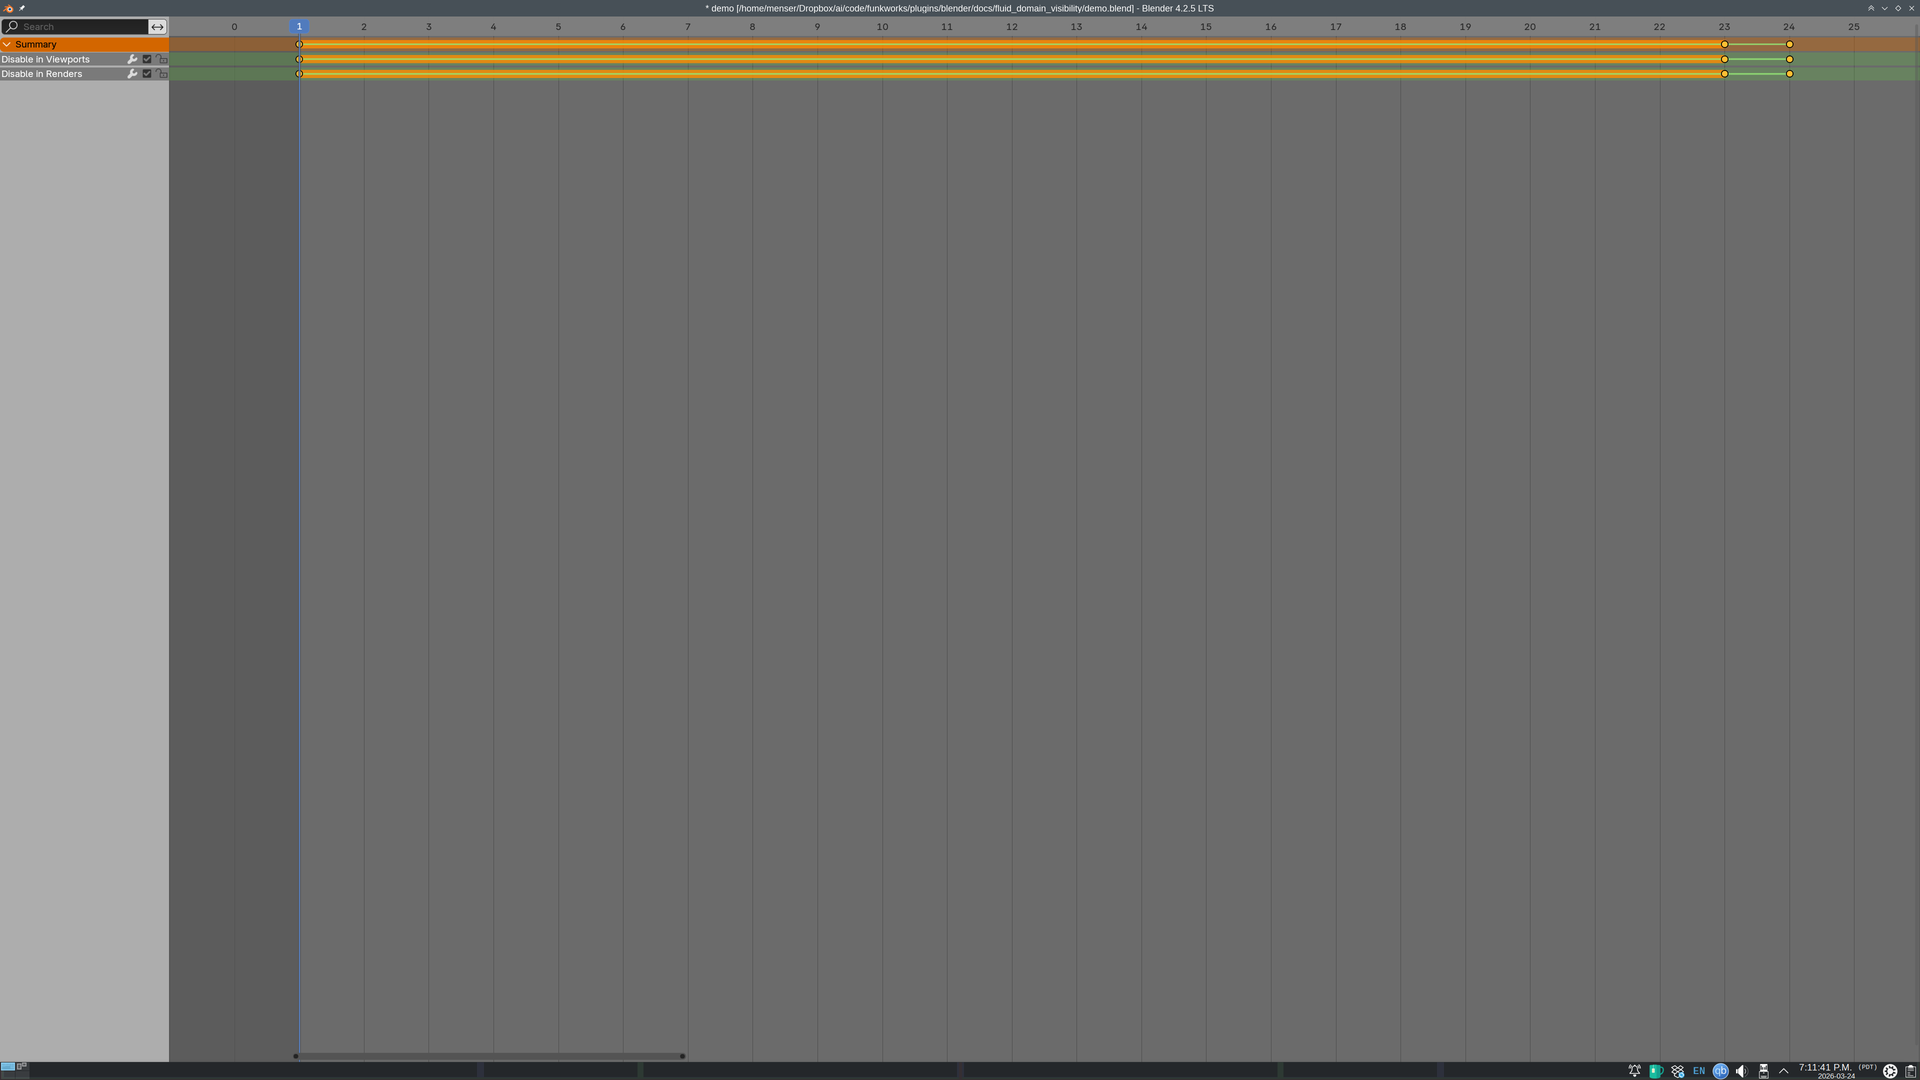
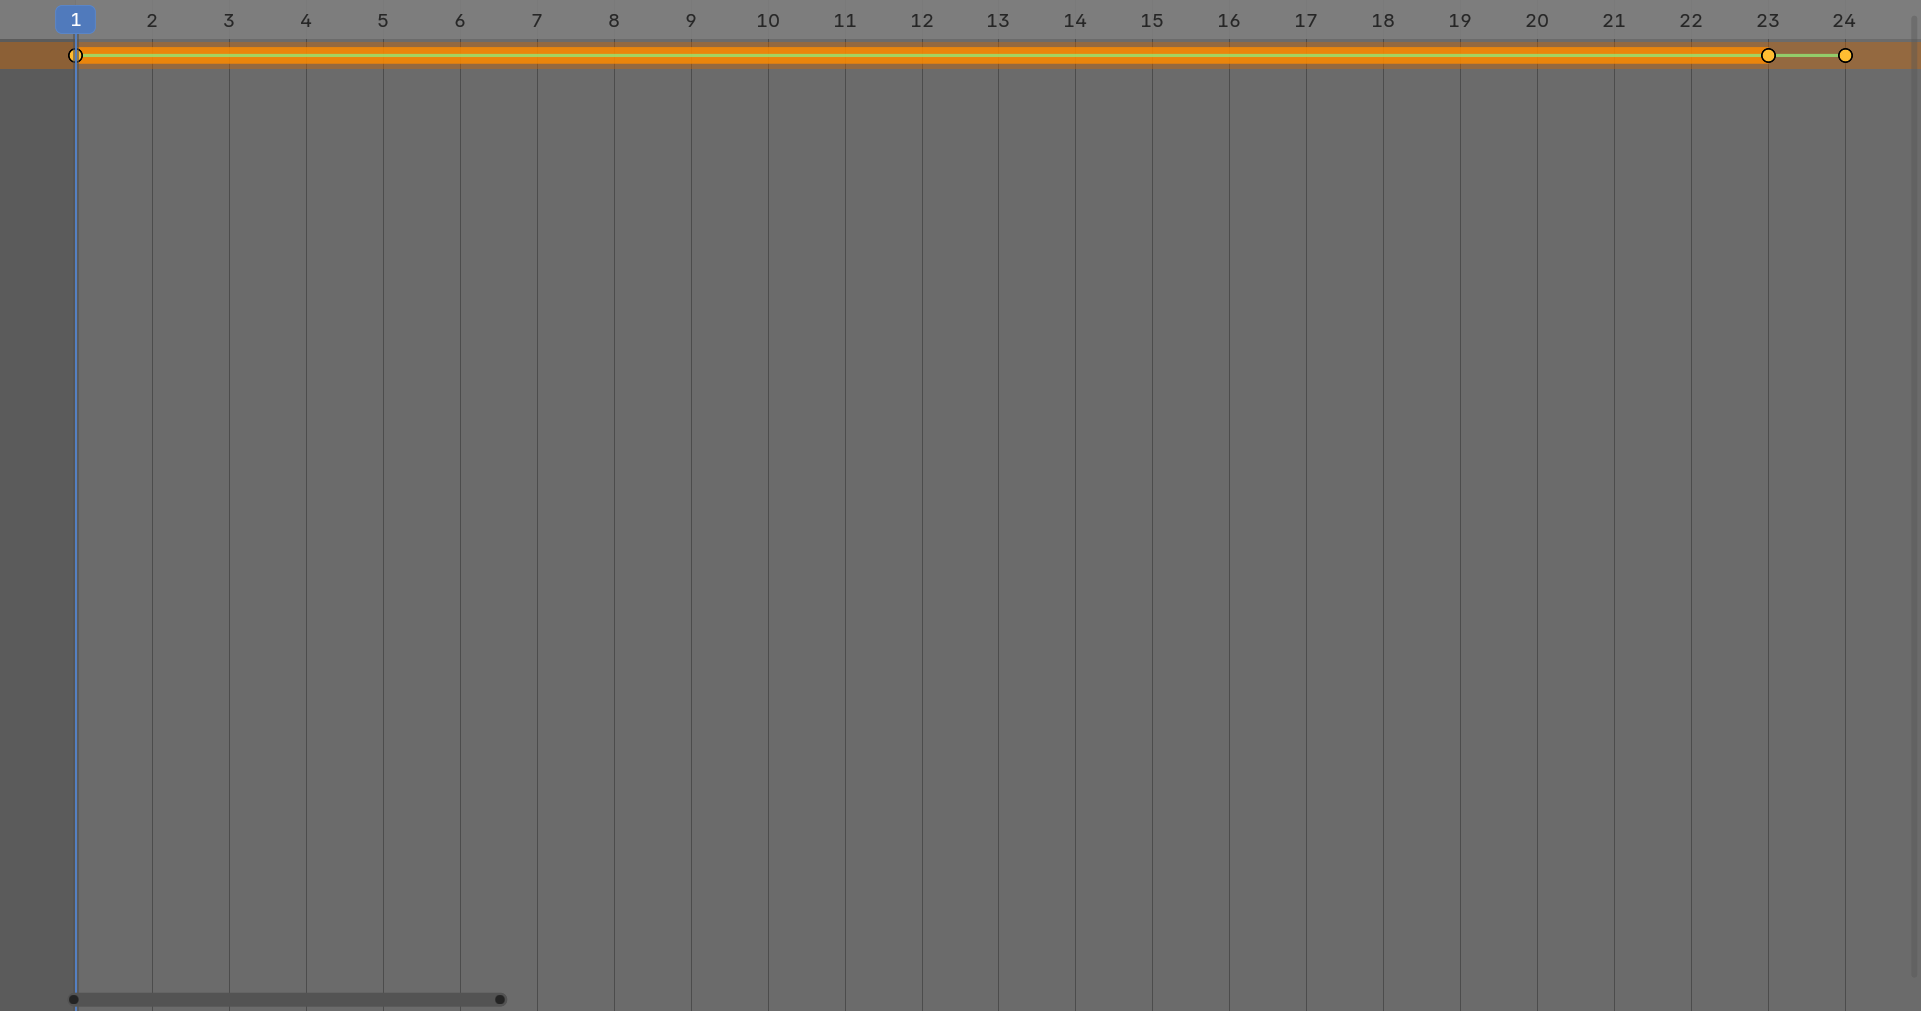
fix(screenshots): recapture tutorial images at correct window size
Replaced wmctrl+ImageMagick/Spectacle capture with xwd window capture,
which reads the Blender window at its logical X11 pixel size (~1921x1011)
rather than at HiDPI physical resolution. Also fixed NameError where
renamed _capture_blender_window was still called as _spectacle_screenshot.

Changed region(s): [[0.0, 0.0, 1.0, 1.0]]

diff --git a/src/tutorials/screenshot_runner.py b/src/tutorials/screenshot_runner.py
@@ -206,23 +206,17 @@ def _blender_window_id() -> str:
     raise RuntimeError("No Blender window found via wmctrl. Is Blender running?")
 
 
-def _spectacle_screenshot(filepath: str) -> None:
-    """Maximize the Blender window, capture full screen, then restore."""
+def _capture_blender_window(filepath: str) -> None:
+    """Capture the Blender window at its natural size using xwd."""
     import subprocess, time
     win_id = _blender_window_id()
     subprocess.run(["wmctrl", "-ia", win_id], check=True, capture_output=True)
-    subprocess.run(["wmctrl", "-ir", win_id, "-b", "add,maximized_vert,maximized_horz"],
-                   check=True, capture_output=True)
-    time.sleep(1.0)  # let maximize animation settle and Blender redraw
+    time.sleep(0.5)
     Path(filepath).parent.mkdir(parents=True, exist_ok=True)
-    subprocess.run(["spectacle", "-b", "-n", "-f", "-o", filepath], check=True, capture_output=True)
-    subprocess.run(["wmctrl", "-ir", win_id, "-b", "remove,maximized_vert,maximized_horz"],
-                   check=True, capture_output=True)
-    # HiDPI: Spectacle captures at physical pixels; scale back to logical resolution
-    img = Image.open(filepath)
-    if img.width > 1920:
-        img = img.resize((img.width // 2, img.height // 2), Image.LANCZOS)
-        img.save(filepath)
+    result = subprocess.run(
+        f"xwd -id {win_id} -silent | convert xwd:- {filepath}",
+        shell=True, check=True, capture_output=True,
+    )
 
 
 def _mcp_capture(client: BlenderMCPClient, manifest: dict) -> list[dict]:
@@ -264,7 +258,7 @@ def _mcp_capture(client: BlenderMCPClient, manifest: dict) -> list[dict]:
                 client._send("frame_all", {})
                 client.capture_viewport(filepath)
             else:
-                _spectacle_screenshot(filepath)
+                _capture_blender_window(filepath)
             results.append({"id": shot["id"], "success": True, "filepath": filepath})
         except Exception as e:
             results.append({"id": shot["id"], "success": False, "error": str(e)})
